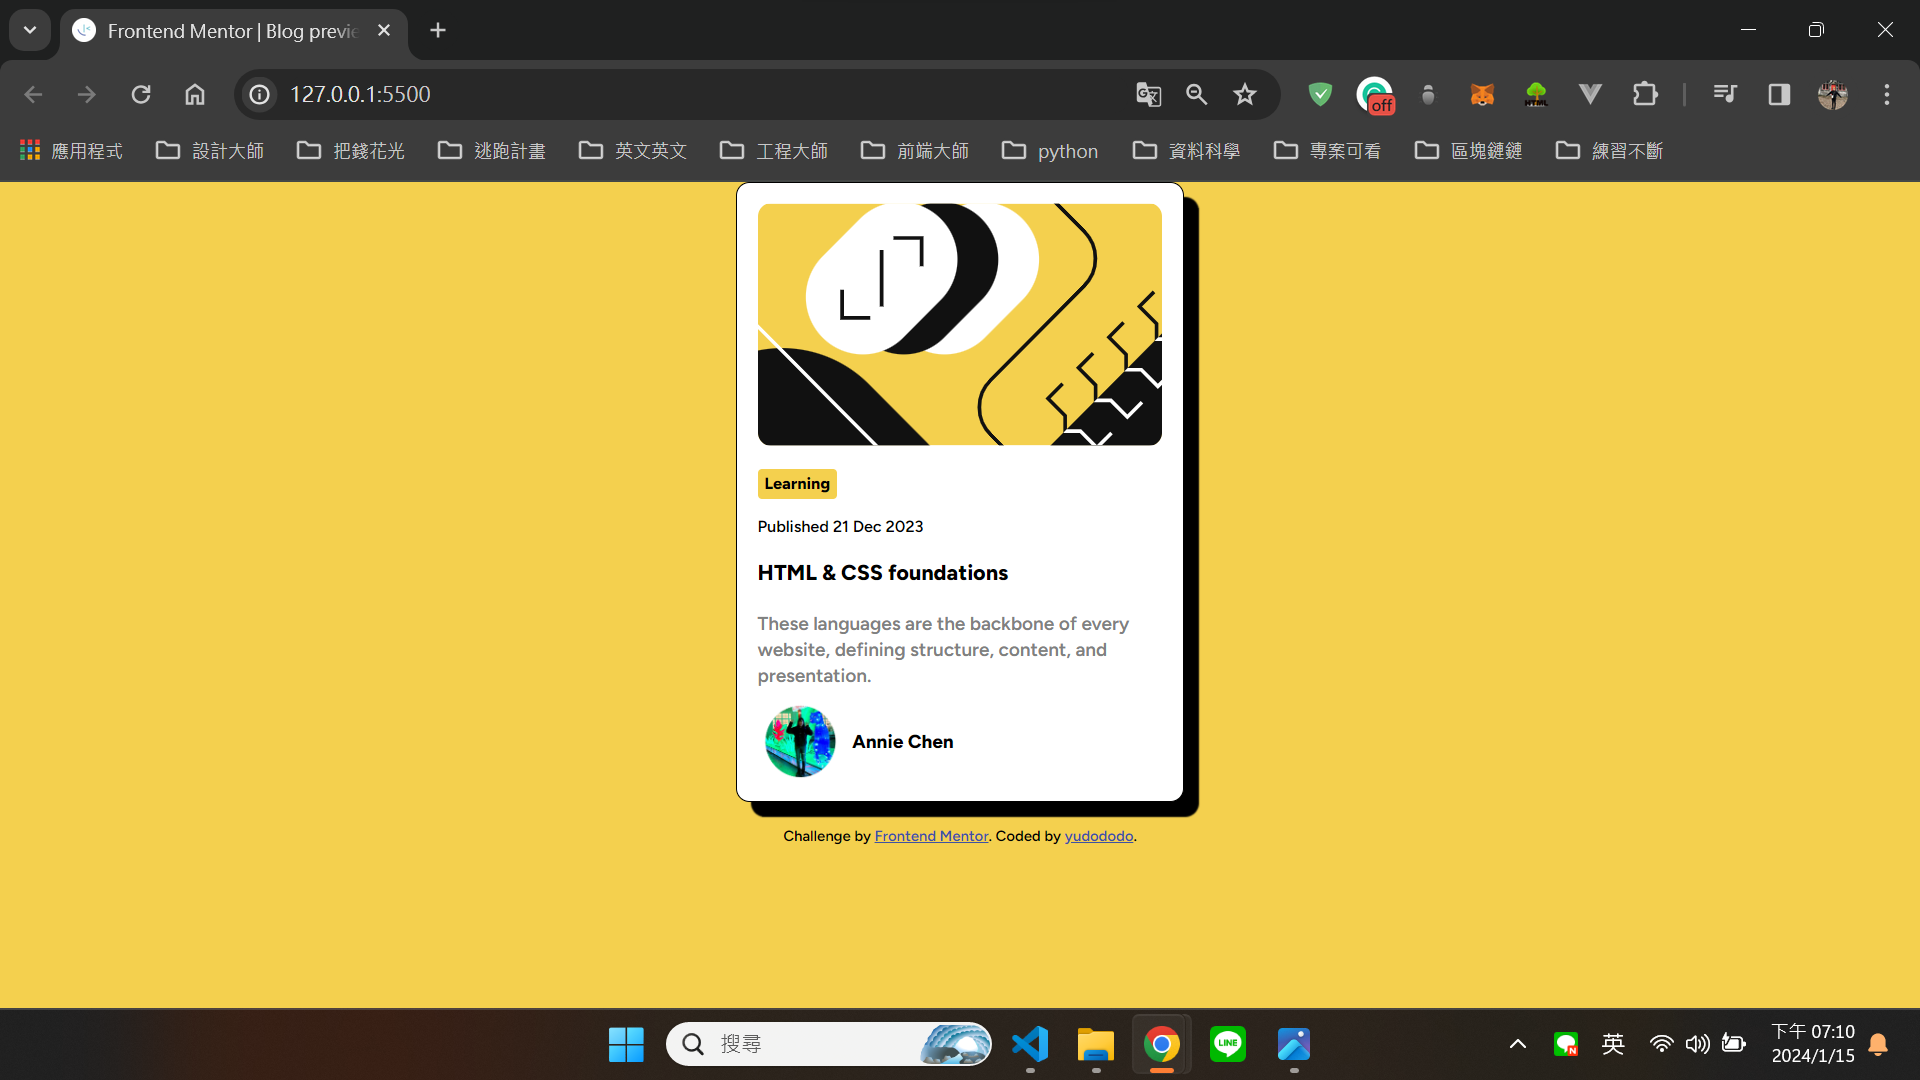
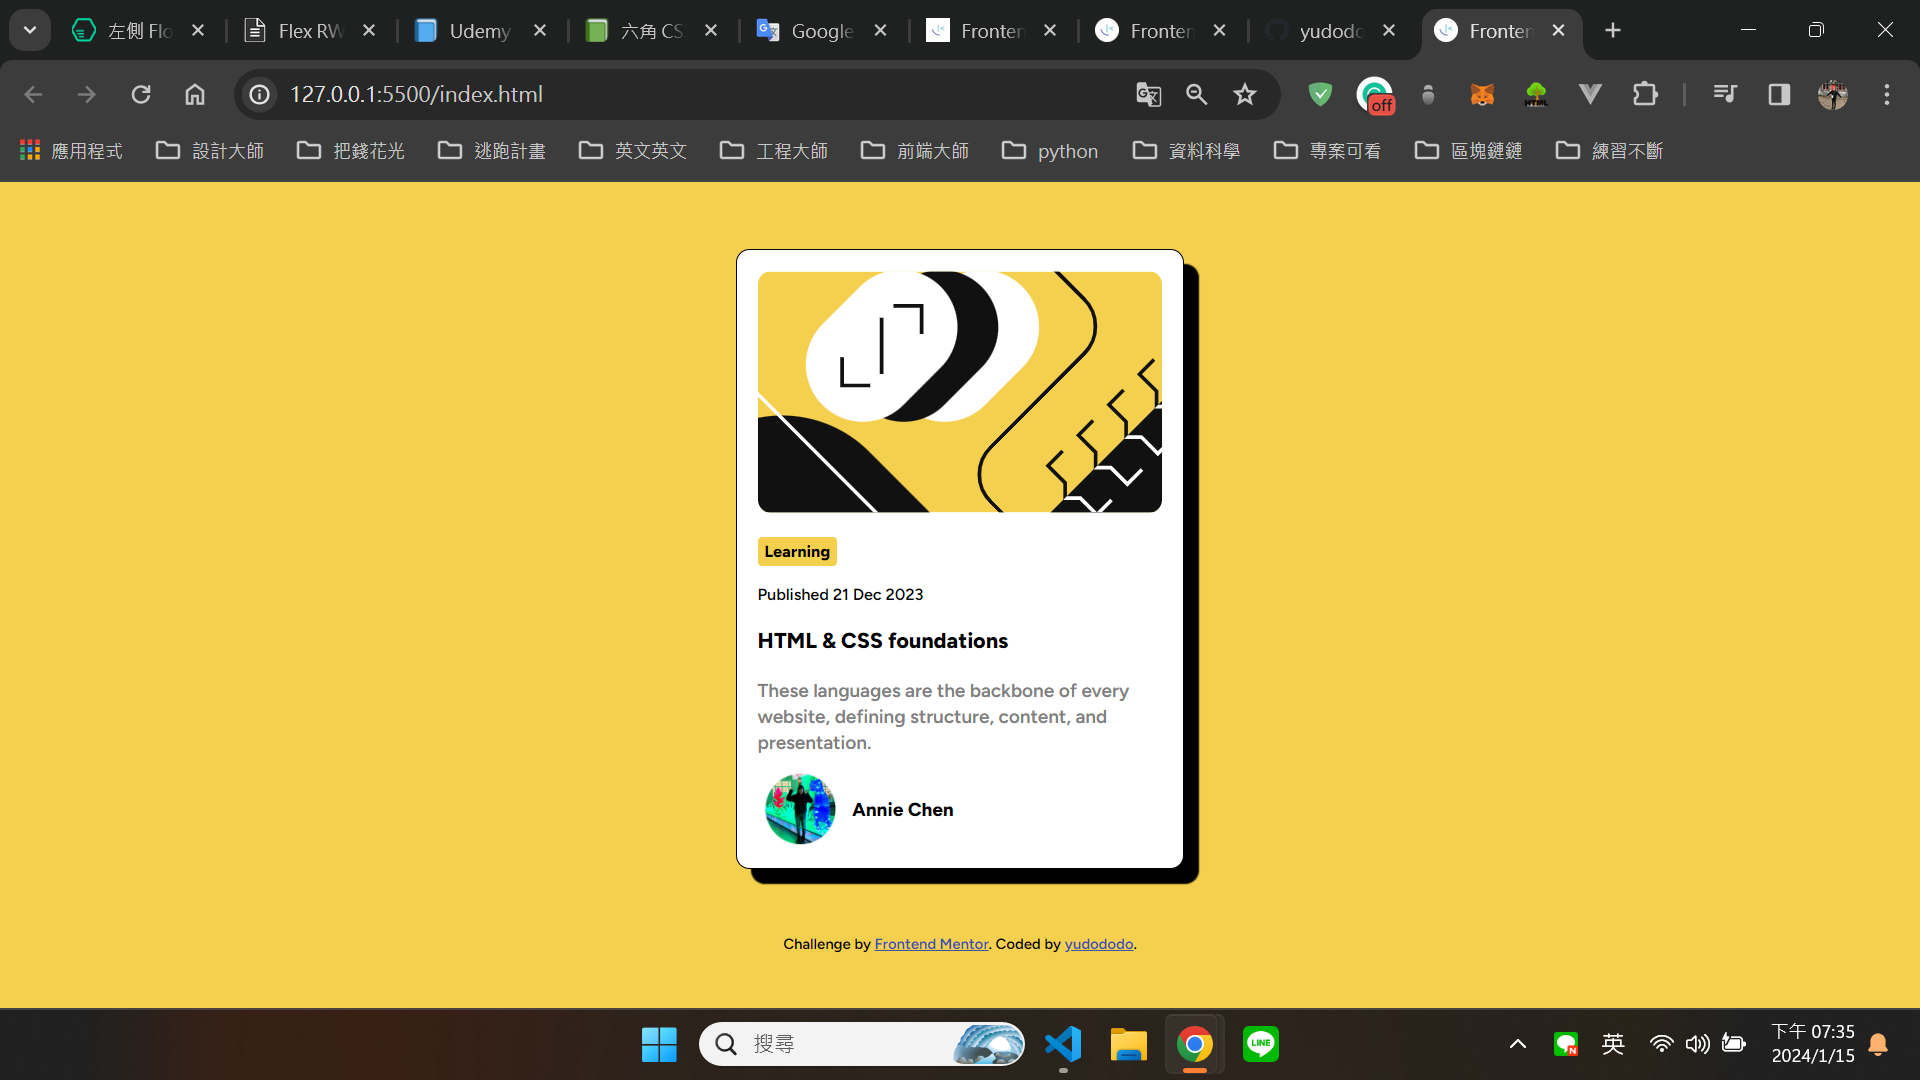
Second Commit

diff --git a/style.css b/style.css
@@ -51,13 +51,13 @@ body{
     font-family: Figtree;
 }
 
-.attribution { font-size: 11px; text-align: center; margin:20px;}
+.attribution { font-size: 11px; text-align: center;}
 .attribution a { color: hsl(228, 45%, 44%); }
 
 .container{
     background: white;
     width: 300px;
-    margin: 0 auto;
+    margin: 50px auto;
     padding: 15px;
     border: 1px solid black;
     box-shadow: 11px 11px 1px black;
